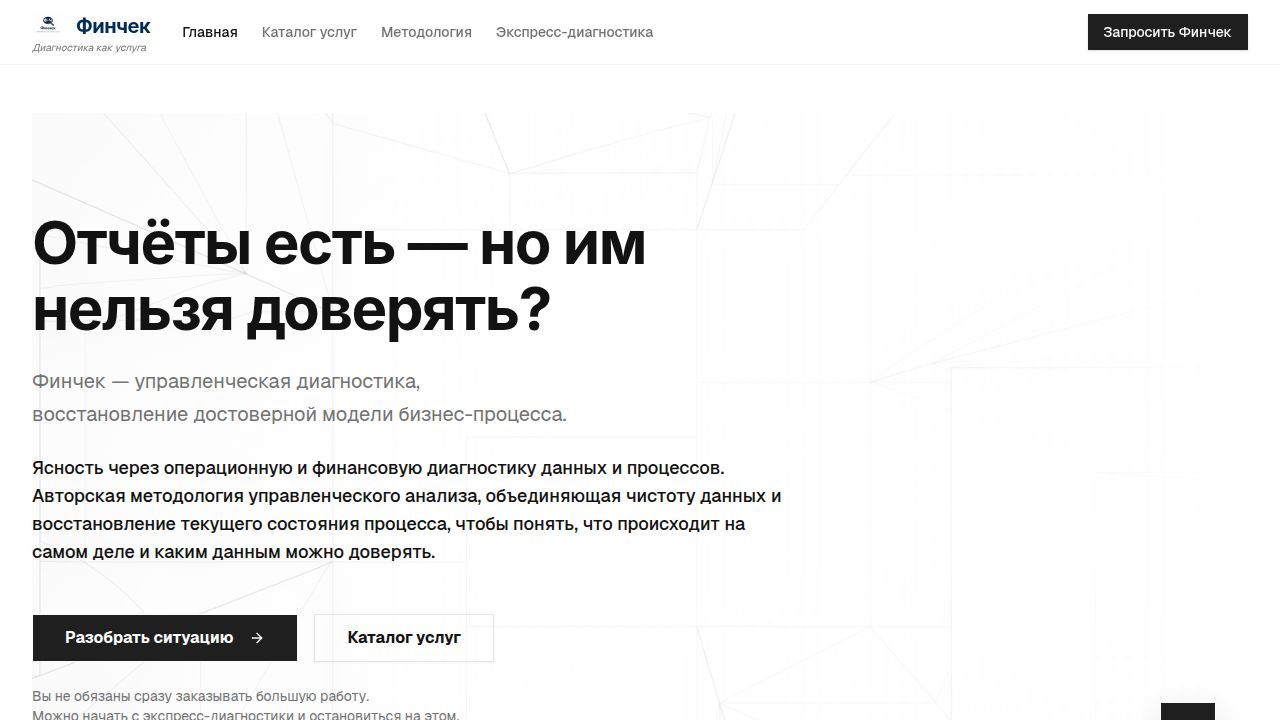
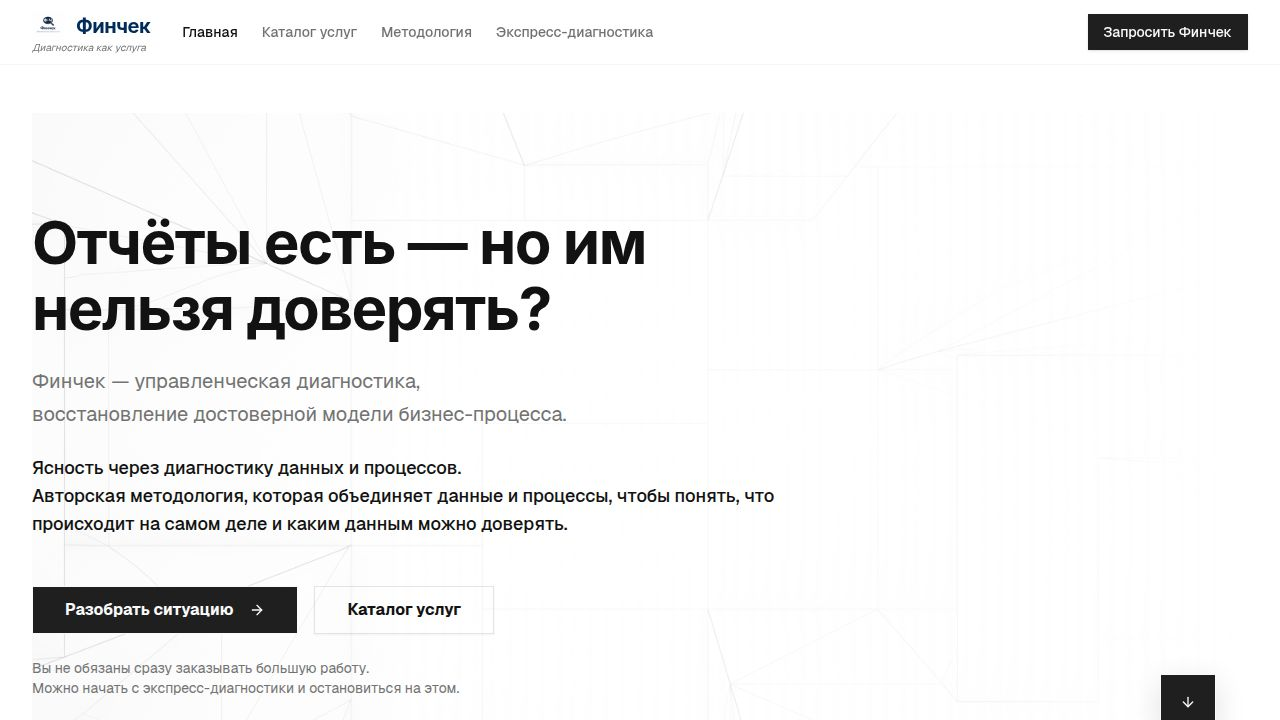
Update homepage text and replace presentation file
Replaced homepage description text and updated the presentation file.

Replit-Commit-Author: Agent
Replit-Commit-Session-Id: 37a254d2-f206-4e6f-9d23-69abc5b6ef7e
Replit-Commit-Checkpoint-Type: full_checkpoint
Replit-Commit-Event-Id: 287182b5-9e9d-4cae-be8a-b01db286ff6a
Replit-Commit-Screenshot-Url: https://storage.googleapis.com/screenshot-production-us-central1/8d6f941a-e7a3-48e3-bfbf-0671b2a4fc34/37a254d2-f206-4e6f-9d23-69abc5b6ef7e/aCsv9dO
Replit-Helium-Checkpoint-Created: true

Changed region(s): [[0.0, 0.6417, 0.625, 1.0], [0.9062, 0.9167, 0.9688, 0.9778]]

diff --git a/client/src/pages/Home.tsx b/client/src/pages/Home.tsx
@@ -70,7 +70,8 @@ export default function Home() {
             Финчек — управленческая диагностика,<br/>восстановление достоверной модели бизнес-процесса.
           </p>
           <p className="text-lg font-medium max-w-3xl">
-            Ясность через операционную и финансовую диагностику данных и процессов. Авторская методология управленческого анализа, объединяющая чистоту данных и восстановление текущего состояния процесса, чтобы понять, что происходит на самом деле и каким данным можно доверять.
+            Ясность через диагностику данных и процессов.<br/>
+            Авторская методология, которая объединяет данные и процессы, чтобы понять, что происходит на самом деле и каким данным можно доверять.
           </p>
           <div className="flex flex-col gap-4 mt-6">
             <div className="flex flex-wrap items-center gap-4">
